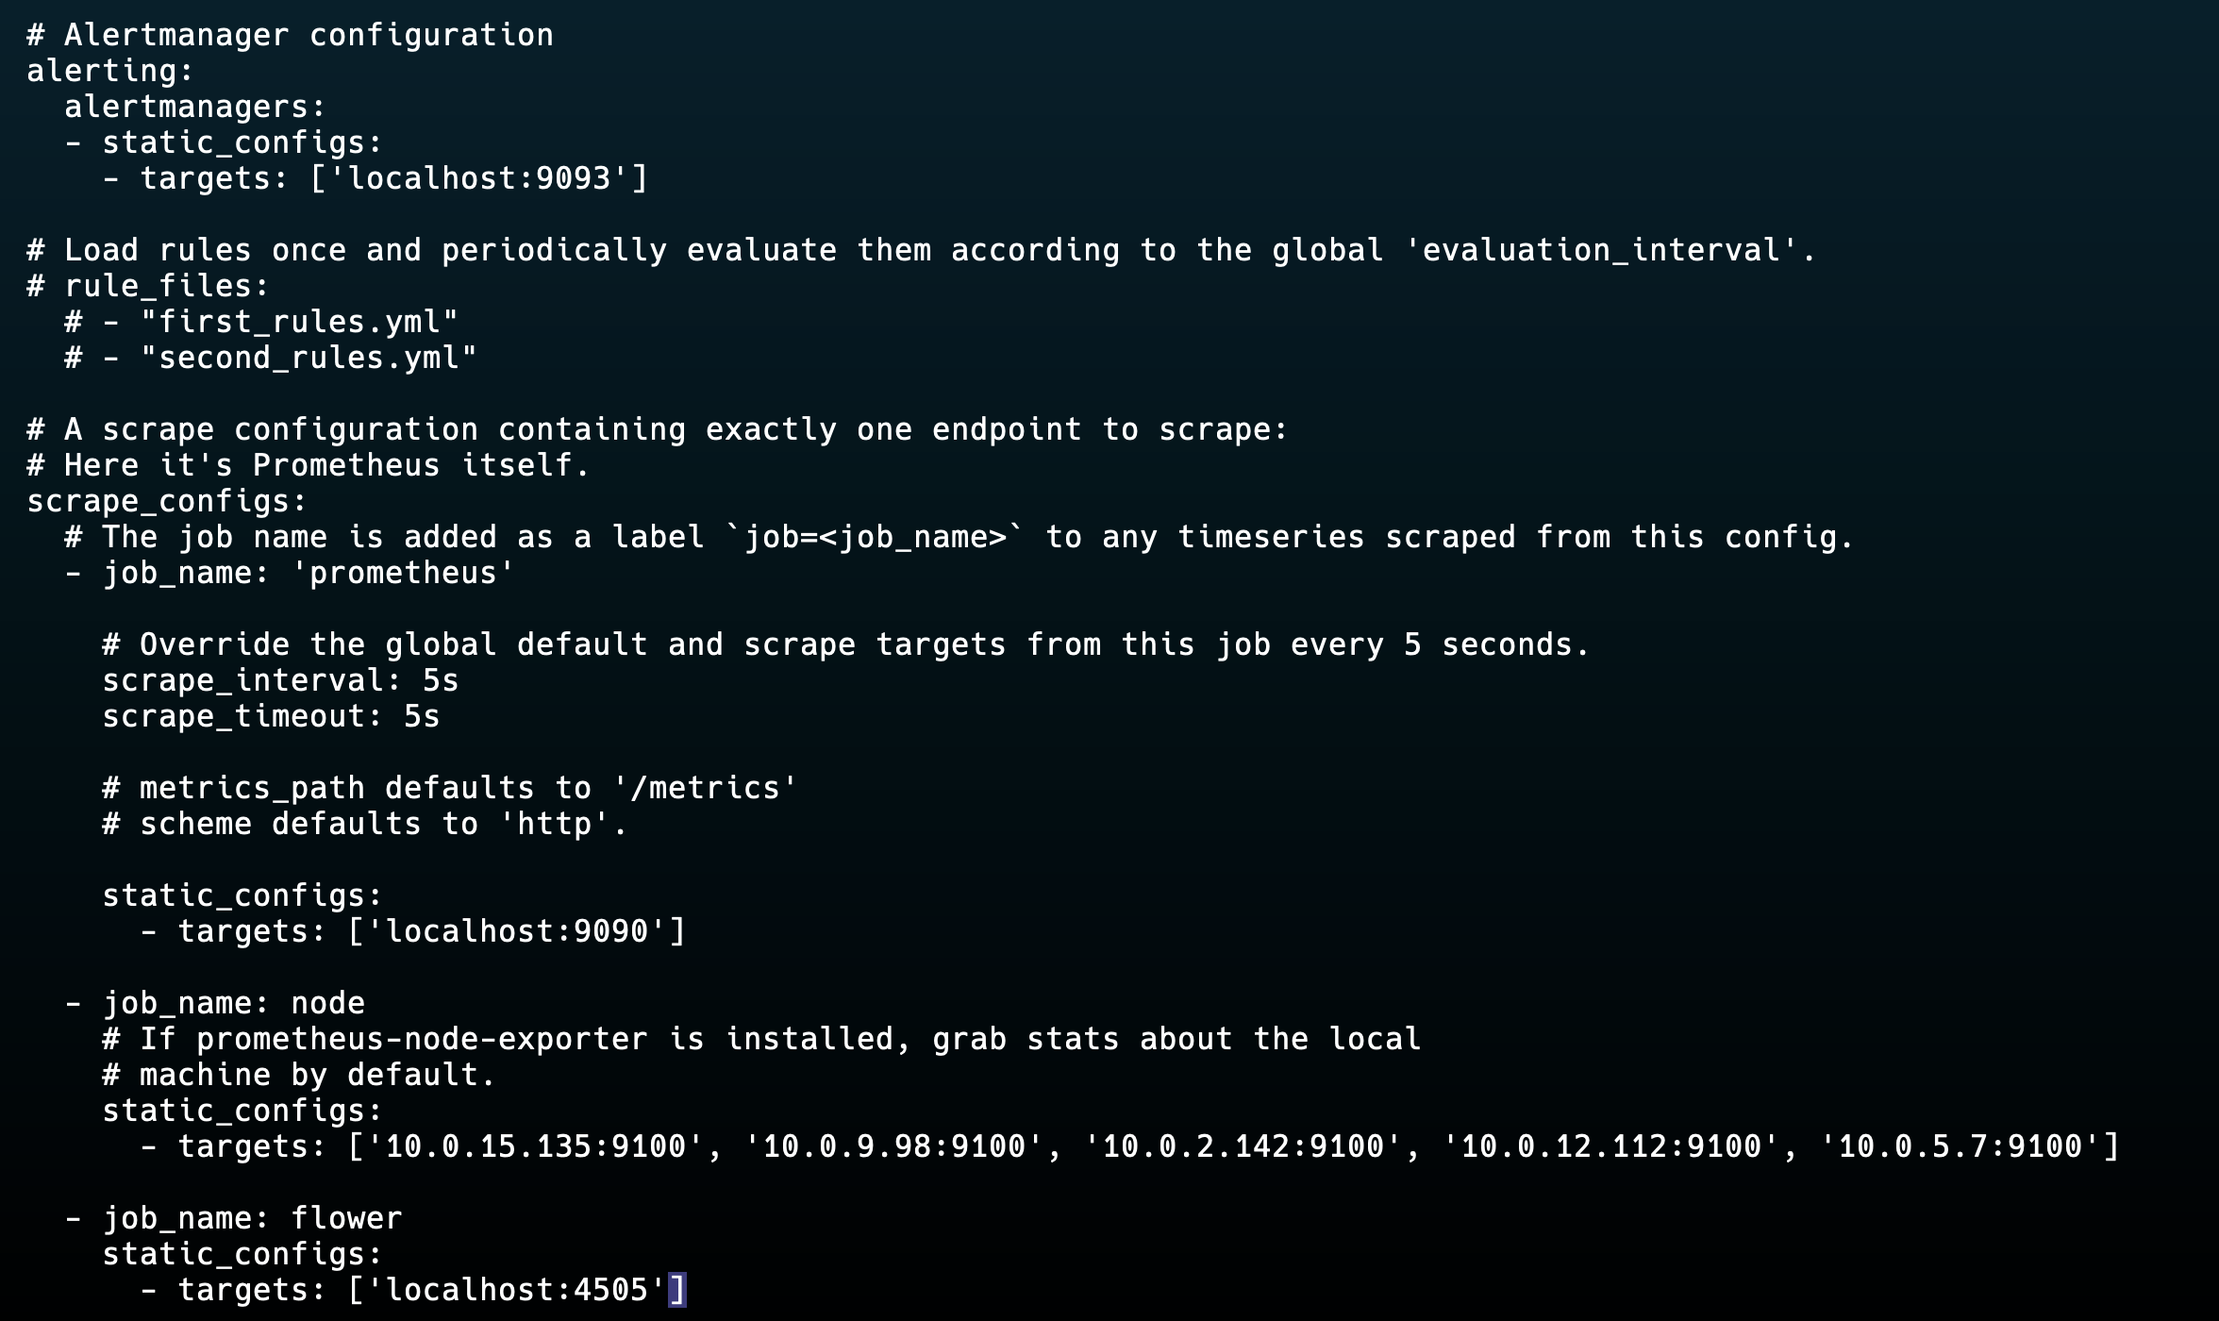
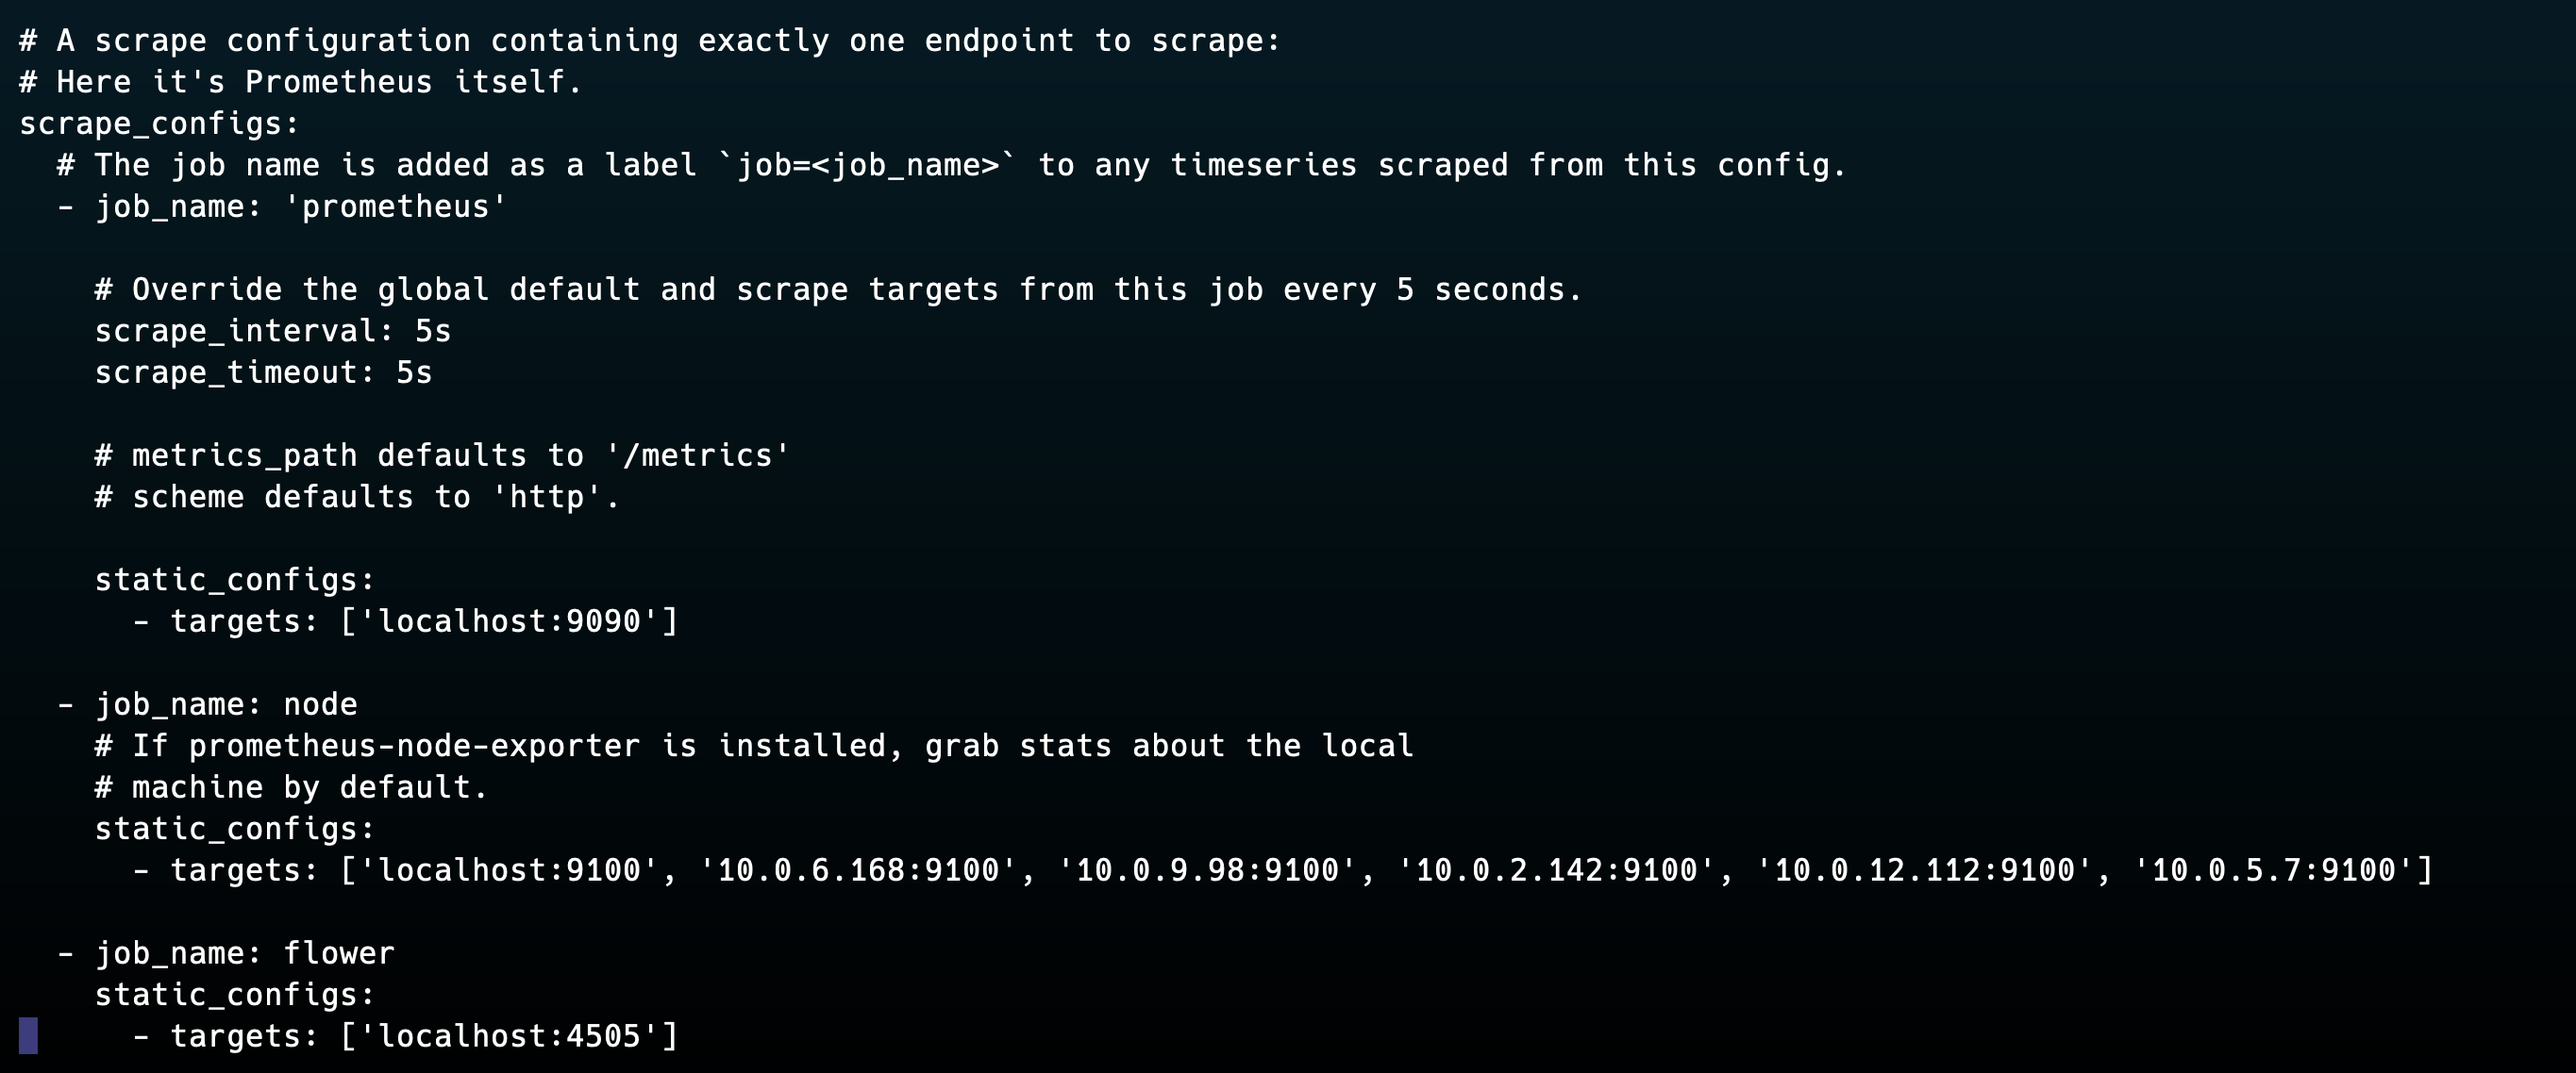
update image and readme

diff --git a/README.md b/README.md
@@ -88,7 +88,9 @@ Unless Specified, all commands below should run on the host node.
     - Config Prometheus
         
         - On bash run `sudo vi /etc/prometheus/prometheus.yml`
-        - TODO: Add config image
+        - ![Prometheus Config](https://github.com/RuiboZhang1/COMP0239-CW/blob/main/images/Prometheus_config.png?raw=true)
+        - On `job_name: node`, keep the localhost, replace other targets with your clusters inner ip address.
+
 
     - Run Prometheus as service
         - On bash run `sudo nano /etc/systemd/system/prometheus.service`, add the following:
@@ -163,18 +165,17 @@ Unless Specified, all commands below should run on the host node.
     - Flower provide an interface to monitor the Celery workers and export some metrics to Prometheus.
     - Run `nohup celery -A app.celery flower --port=4505 &> celery_flower_log.txt 2>&1 &`, this comment allows the flower run on background and will not be killed after log out the remote server. The log will be written into celery_flower_log.txt file.
     - On local machine, access to the Flower interface: `public_ip_of_host:4505`
-    - TODO: add image of flower
 
 15. **Initialize Celery Workers (On playbooks Directory)**
     - Command all cluster nodes to join as Celery workers.
     - Run on Bash:`ansible-playbook --private-key=~/.ssh/ansible_key -i inventory.ini initialize_celery_workers.yaml`.
-    - Check the Flower interface, now you show see five machines are Online.
+    - Check the Flower interface, now you show see five machines are Online. ![Flower Interface](https://github.com/RuiboZhang1/COMP0239-CW/blob/main/images/flower_interface.png?raw=true)
     
-16. **Run Flask Server (On pipelines Directory)**
+1.  **Run Flask Server (On pipelines Directory)**
     - Run on Bash:`nohup python app.py > flask_log.txt 2>&1 &`
     - This will run the Flask Server on background, you can access to the Front-end and upload your own image to generate the caption from local machine: `public_ip_of_host:4506`.
 
-17. **Run Test Pipeline (On pipelines Directory)**
+2.  **Run Test Pipeline (On pipelines Directory)**
     - Run on Bash:`nohup python test_pipeline.py > test_pipeline_log.txt 2>&1 &`
     - This file will run on background, read the coco_image_urls.txt file, which contains more than 150k image urls. It will continuously send the url to the Flask server and let the pipeline to generate the caption.
 
